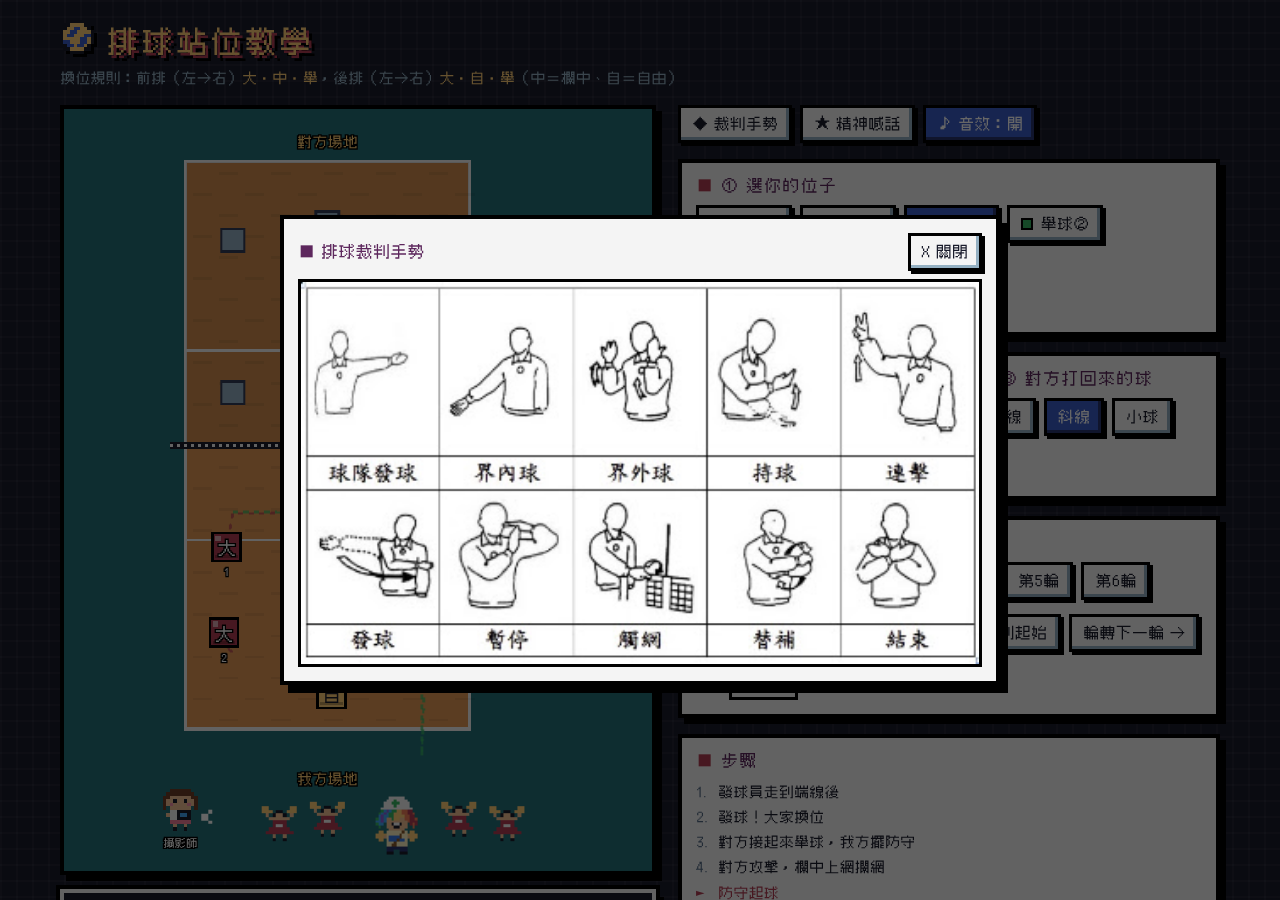
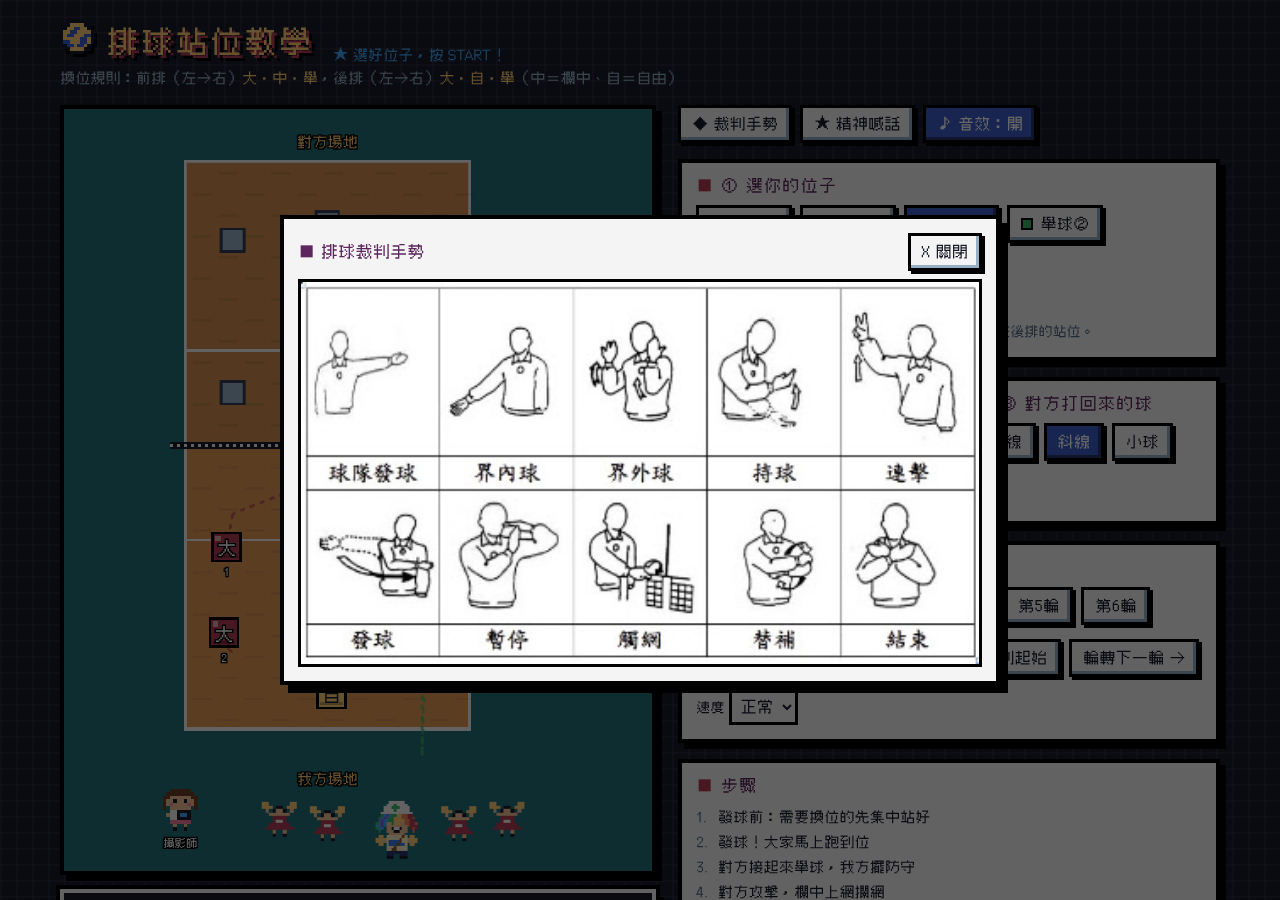
我方發球前需要換位的先集中站；新增自由球員備註
Claude-Session: https://claude.ai/code/session_0111Jq42HSaSmuEgEPrctLA6

Changed region(s): [[0.5312, 0.3422, 0.9688, 1.0], [0.1875, 0.8711, 0.4062, 0.9644], [0.2812, 0.0311, 0.3125, 0.0622]]

diff --git a/index.html b/index.html
@@ -135,6 +135,7 @@
       <h2>① 選你的位子</h2>
       <div class="row" id="pickRow"></div>
       <p class="note" style="margin:8px 0 0">也可以直接點場上的球員。</p>
+      <p class="note" style="margin:4px 0 0">※ 如果沒有自由球員，可以把「自由」想成欄中在後排的站位。</p>
     </div>
 
     <div class="card half">
@@ -642,9 +643,9 @@ async function defend(k0, from){
 
 async function playUs(){
   const sv = whoAt(1);
-  setSteps(['發球員走到端線後','發球！大家換位', ...DEF_STEPS]);
+  setSteps(['發球前：需要換位的先集中站好','發球！大家馬上跑到位', ...DEF_STEPS]);
   stepNow(0);
-  caption(`後排右的 ${nm(sv)} 走到端線後準備發球。` + (lu.serveM ? `<br>這輪輪到欄中發球，自由先在場邊等；等我方失分、換對方發球時，自由再換回來。` : ''));
+  caption(`後排右的 ${nm(sv)} 走到端線後準備發球。` + stackText() + (lu.serveM ? `<br>這輪輪到欄中發球，自由先在場邊等；等我方失分、換對方發球時，自由再換回來。` : ''));
   if (!await tween(0.8, [{i:sv, to:SERVE}])) return;
   sfx('whistle');
   if (!await wait(700)) return;
@@ -661,7 +662,36 @@ async function playUs(){
 /* 開始前站的位置：對方發球 → 接發站位，我方發球 → 輪轉位置 */
 function readySpot(i){
   if (side === 'them' && onCourt(i)) return receiveSpots()[i].slice();
+  if (side === 'us' && onCourt(i)) return serveSpots()[i].slice();
   return startSpot(i);
+}
+
+/* 我方發球前：需要換位的那一排先集中（前排貼網靠中間、後排站中間），球一發馬上跑到位 */
+function needSwitch(front){
+  return P.some((_, i) => onCourt(i) && isFront(lu.pos[i]) === front && lu.pos[i] !== 1
+    && Math.abs(baseSpot(i)[0] - ROT[lu.pos[i]][0]) > 5);
+}
+function serveSpots(){
+  const spots = {};
+  const fr = needSwitch(true), bk = needSwitch(false);
+  const STACK_F = {4:[160,404], 3:[200,404], 2:[240,404]};
+  const STACK_B = {5:[184,570], 6:[216,594]};
+  P.forEach((_, i) => {
+    if (!onCourt(i)) return;
+    const p = lu.pos[i];
+    if (isFront(p)) spots[i] = (fr ? STACK_F[p] : ROT[p]).slice();
+    else if (p === 1) spots[i] = ROT[1].slice();
+    else spots[i] = (bk ? STACK_B[p] : ROT[p]).slice();
+  });
+  return spots;
+}
+function stackText(){
+  const fr = needSwitch(true), bk = needSwitch(false);
+  if (!fr && !bk) return '這輪大家本來就站在對的位置，發球前不用集中。';
+  const parts = [];
+  if (fr) parts.push('前排<b>貼網、靠中間集中</b>');
+  if (bk) parts.push('後排<b>站在中間</b>');
+  return '這輪要換位，' + parts.join('，') + '，球一發馬上跑到位。';
 }
 
 /* 接發站位：前排舉球員站網前，其他五人站 W 型 */

diff --git a/README.md b/README.md
@@ -34,8 +34,10 @@
 ### ① 選你的位子
 可以選大砲①②、舉球①②、欄中①②、自由，或直接點場上的球員。選到的人會有黑圈和「你」標記，跑動路線是粗虛線。
 
+※ 如果沒有自由球員，可以把「自由」想成欄中在後排的站位。
+
 ### ② 選哪一方發球
-- **我方發球**：發球員走到端線後發球，球一離手，大家換到自己的位置。
+- **我方發球**：需要換位的那一排先集中站好（前排貼網靠中間、後排站在中間，仍照輪轉順序），發球員走到端線後發球，球一離手大家馬上跑到自己的位置。
 - **對方發球（我方接發）**：一選「對方發球」，球員就會先排好接發站位。前排舉球員站網前，其他五個人站 **W 型**接發（照輪轉順序，不能提早換位）→ 球過網時大家**先在原位接一傳**，只有前排舉球員快跑到舉球位 → 一傳到位後大家才換位，欄中往網前衝準備打中間 → 舉給左邊大砲扣球。
   - **前排是 舉・中・大 的輪次**（舉在最左、大砲在最右，第 1、4 輪）：前排不硬換位，第一球可以選「大砲先打中間」或「欄中先打最左邊」，打完這一球前排才換到正確位置。
 
